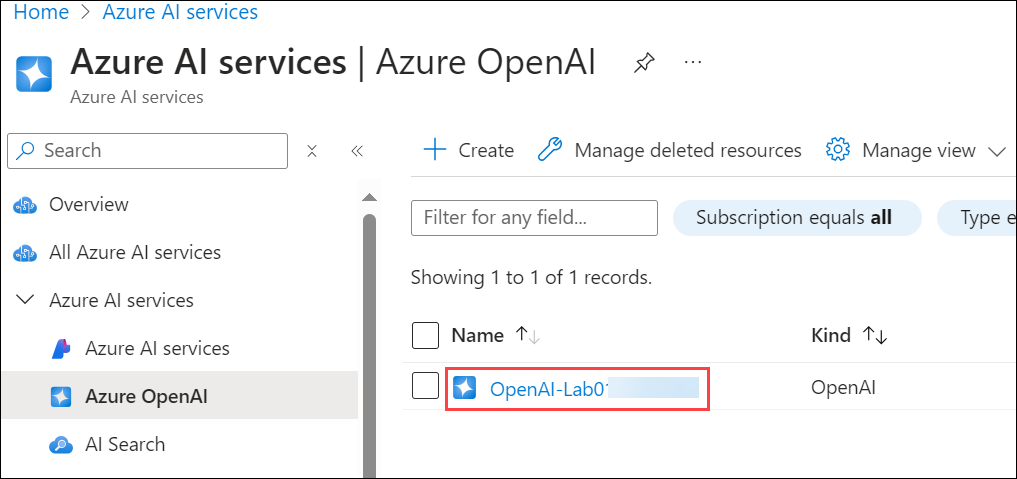
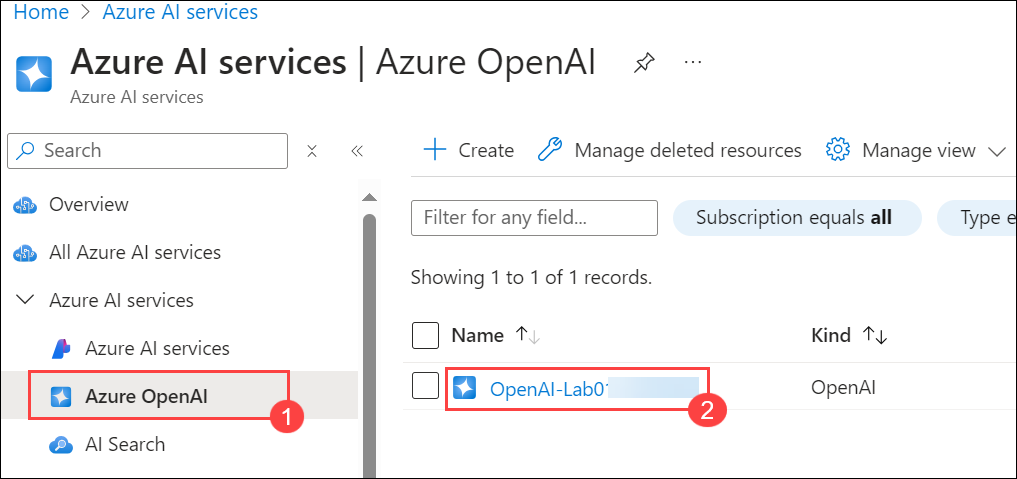
update getting started

Changed region(s): [[0.0305, 0.8184, 0.3048, 0.9061], [0.0305, 0.7599, 0.3048, 0.7891], [0.6706, 0.8184, 0.7316, 0.9061]]

diff --git a/Instructions/Labs/00-GettingStarted.md b/Instructions/Labs/00-GettingStarted.md
@@ -52,16 +52,16 @@ This lab provides robust functionalities for leveraging AI within Azure. Azure O
 
 1. Once the environment is provisioned, a virtual machine (JumpVM) and lab guide will get loaded in your browser. Use this virtual machine throughout the workshop to perform the lab. You can see the number on the lab guide bottom area to switch to different exercises of the lab guide.
 
-   ![](../media/getting-started1.png "Lab Environment")
+   ![](../media/getting-started1u.png)
    
-1. To get the lab environment details, you can select the **Environment Details** tab. Additionally, the credentials will also be emailed to your email address provided during registration. You can start, stop, and restart virtual machines from the **Resources** tab.
+1. To get the lab environment details, you can select the **Environment** tab. Additionally, the credentials will also be emailed to your email address provided during registration. You can start, stop, and restart virtual machines from the **Resources** tab.
 
-   ![](../media/envdetails.png "Lab Environment")
+   ![](../media/envdetailsu.png "Lab Environment")
 
 ## Login to Azure Portal
 1. In the JumpVM, click on Azure portal shortcut of Microsoft Edge browser which is created on desktop.
 
-   ![](../media/azureportal_icon1.png "Lab Environment")
+   ![](../media/azureportal_icon1u.png)
    
 1. On **Sign into Microsoft Azure** tab you will see login screen, in that enter following email/username and then click on **Next**. 
    * Email/Username: <inject key="AzureAdUserEmail"></inject>

diff --git a/Instructions/Labs/01-get-started-azure-openai.md b/Instructions/Labs/01-get-started-azure-openai.md
@@ -55,13 +55,13 @@ In this task, you'll deploy a specific AI model instance within your Azure OpenA
 
       ![](../media/tel-11.png)
 
-2. On **Azure AI Services | Azure OpenAI** blade, select **OpenAI-Lab01-<inject key="Deployment-id" enableCopy="false"></inject>**
+2. On the **Azure AI Services** page, ensure that **Azure OpenAI (1)** is selected from the left blade. Then, select **OpenAI-Lab01-<inject key="Deployment-id" enableCopy="false"></inject>**
 
-      ![](../media/tel-1.png)
+      ![](../media/update07.png)
 
-3. In the Azure OpenAI resource pane, click on **Go to Azure OpenAI Studio** it will navaigate to **Azure AI Studio**.
+3. In the Azure OpenAI resource pane, click on **Go to Azure AI Foundry portal** it will navaigate to **Azure AI Foundry portal**
 
-      ![](../media/new01.png)
+      ![](../media/update08.png)
 
 4. In the **Deployments (1)** page, click on **+ Deploy model** , Choose **Deploy base Model (2)**.
 

diff --git a/Instructions/Labs/05-generate-images.md b/Instructions/Labs/05-generate-images.md
@@ -25,11 +25,11 @@ In this task, you will use the DALL-E playground in Azure OpenAI Studio to exper
 
       ![](../media/tel-11.png)
 
-2. On **Azure AI Services | Azure OpenAI** blade, select **OpenAI-Lab01-<inject key="Deployment-ID" enableCopy="false"></inject>**
+2. On the **Azure AI Services** page, ensure that **Azure OpenAI (1)** is selected from the left blade. Then, select **OpenAI-Lab01-<inject key="Deployment-ID" enableCopy="false"></inject>**
 
       ![](../media/update07.png)
 
-3. In the Azure OpenAI resource pane, click on **Go to Azure OpenAI Studio** it will navigate to **Azure AI Studio**.
+3. In the Azure OpenAI resource pane, click on **Go to Azure AI Foundry portal** it will navaigate to **Azure AI Foundry portal**.
 
       ![](../media/update08.png)
               

diff --git a/Instructions/Labs/02-natural-language-azure-openai.md b/Instructions/Labs/02-natural-language-azure-openai.md
@@ -40,11 +40,11 @@ In this task, you'll deploy a specific AI model instance within your Azure OpenA
 
    ![](../media/tel-11.png)
 
-2. On **Azure AI Services | Azure OpenAI** blade, select **OpenAI-Lab01-<inject key="DeploymentID" enableCopy="false"></inject>**
+2. On the **Azure AI Services** page, ensure that **Azure OpenAI (1)** is selected from the left blade. Then, select **OpenAI-Lab01-<inject key="DeploymentID" enableCopy="false"></inject>**
 
    ![](../media/update07.png)
 
-3. In the Azure OpenAI resource pane, click on **Go to Azure OpenAI Studio** it will navigate to **Azure AI Studio**.
+3. In the Azure OpenAI resource pane, click on **Go to Azure AI Foundry portal** it will navaigate to **Azure AI Foundry portal**
 
    ![](../media/update08.png)
 

diff --git a/Instructions/Labs/06-use-own-data.md b/Instructions/Labs/06-use-own-data.md
@@ -15,6 +15,7 @@ In this lab, you will complete the following tasks:
 
 ## Estimated time: 60 minutes
 
+
 ### Task 1: Observe normal chat behavior without adding your own data
 
 Before connecting Azure OpenAI to your data, first observe how the base model responds to queries without any grounding data.
